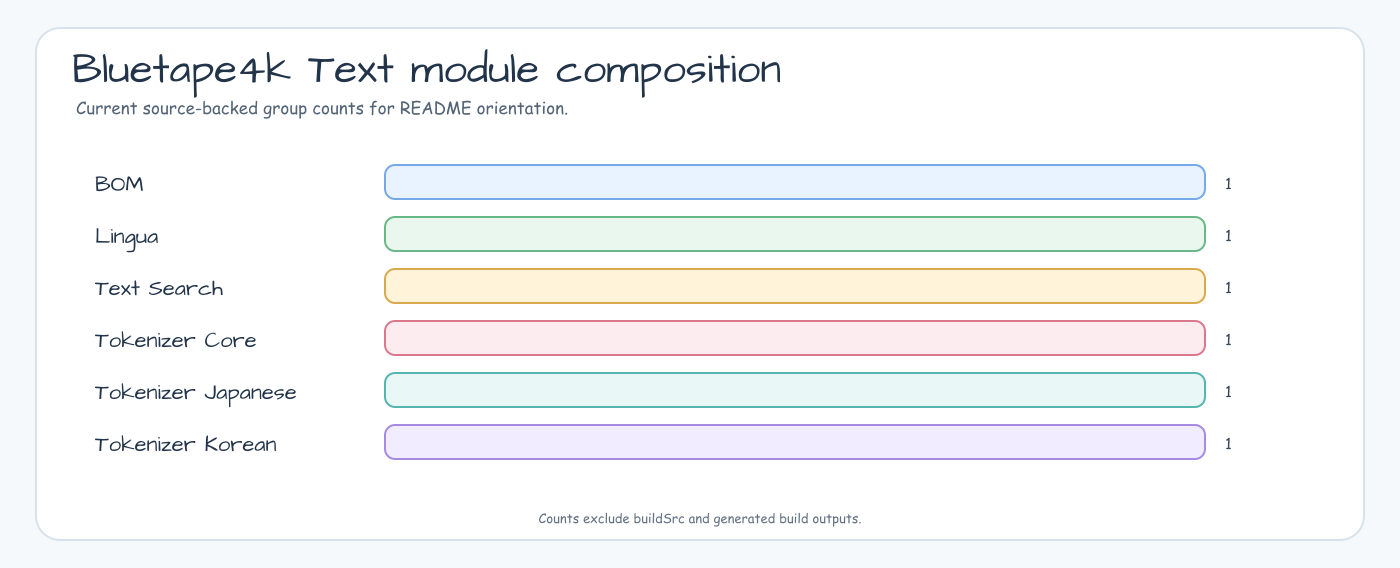
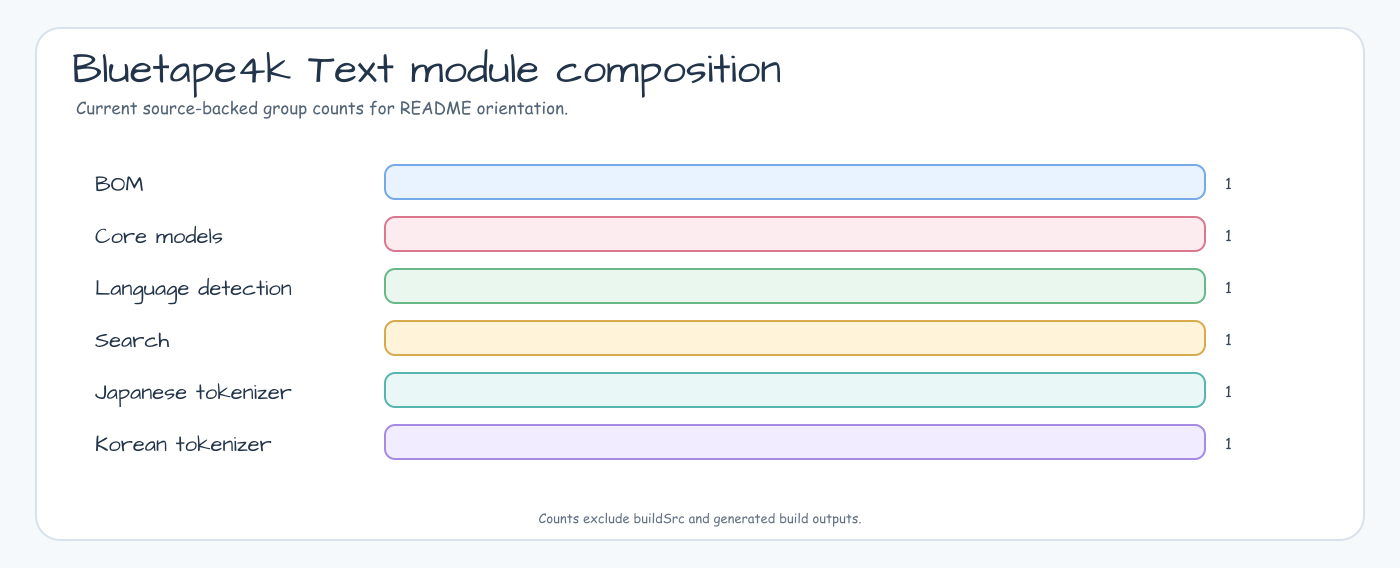
docs: align text README visuals with source modules
Refresh README visuals and dependency examples so the text repository presents the current Gradle module layout first and uses current published coordinates.\n\nConstraint: README diagrams must remain English-only with pastel styling and verified PNG output.\nRejected: Preserve older branded artifact names | settings.gradle.kts and gradle.properties define the current public coordinates.\nConfidence: high\nScope-risk: narrow\nDirective: Treat settings.gradle.kts and gradle.properties as README coordinate sources of truth.\nTested: rsvg-convert root SVG to PNG; xmllint updated SVG assets; README image link scan; stale coordinate grep; git diff --check; ./gradlew -q projects.\nNot-tested: Full Gradle test suite; documentation-only change.

diff --git a/README.md b/README.md
@@ -45,11 +45,12 @@ and high-throughput keyword search.
 
 | Module | Description | Artifact |
 |---|---|---|
+| `bom` | Consumer BOM for aligned text artifacts | `io.github.bluetape4k.text:bluetape4k-text-bom` |
 | `tokenizer-core` | Shared domain models (`TokenizeRequest/Response`, `BlockwordRequest/Response`, `Severity`), dictionary utilities (`DictionaryProvider`, `CharArraySet`) | `io.github.bluetape4k.text:tokenizer-core` |
-| `tokenizer-japanese` | `JapaneseProcessor` facade powered by Kuromoji IPAdic — morphological analysis, POS filtering, blockword detection and masking | `io.github.bluetape4k.text:tokenizer-japanese` |
-| `tokenizer-korean` | `KoreanProcessor` facade — full Korean NLP pipeline: normalization, POS tokenization, phrase extraction, stemming, sentence splitting, blockword masking | `io.github.bluetape4k.text:tokenizer-korean` |
 | `lingua` | Kotlin DSL wrapper around Lingua — factory functions for `LanguageDetector`, mixed-language detection via `Set<Language>`, `UnicodeDetector` | `io.github.bluetape4k.text:lingua` |
 | `text-search` | `AhoCorasickAutomaton<V>` — O(n+m+z) multi-keyword search, Unicode normalization, word boundaries, Kotlin Flow API | `io.github.bluetape4k.text:text-search` |
+| `tokenizer-japanese` | `JapaneseProcessor` facade powered by Kuromoji IPAdic — morphological analysis, POS filtering, blockword detection and masking | `io.github.bluetape4k.text:tokenizer-japanese` |
+| `tokenizer-korean` | `KoreanProcessor` facade — full Korean NLP pipeline: normalization, POS tokenization, phrase extraction, stemming, sentence splitting, blockword masking | `io.github.bluetape4k.text:tokenizer-korean` |
 
 ## Architecture
 

diff --git a/bom/README.ko.md b/bom/README.ko.md
@@ -5,7 +5,7 @@
 **bluetape4k-text** 생태계용 Maven BOM (Bill of Materials). 모든 `io.github.bluetape4k.text:*`
 모듈의 버전을 중앙 관리한다.
 
-## Architecture
+## 아키텍처
 
 ![bom Architecture diagram](../docs/images/readme-diagrams/bom-architecture-01.png)
 
@@ -21,11 +21,11 @@ BOM은 Gradle `java-platform` 으로 `<dependencyManagement>` constraint 만 게
 
 | 모듈 | 설명 |
 |------|------|
-| `bluetape4k-tokenizer-core` | Tokenizer 코어 추상화 |
-| `bluetape4k-tokenizer-korean` | 한국어 형태소 분석기 |
-| `bluetape4k-tokenizer-japanese` | 일본어 토크나이저 |
-| `bluetape4k-text-search` | Aho-Corasick 다중 패턴 검색 |
-| `bluetape4k-lingua` | 다국어 감지 |
+| `tokenizer-core` | Tokenizer 코어 추상화 |
+| `tokenizer-korean` | 한국어 형태소 분석기 |
+| `tokenizer-japanese` | 일본어 토크나이저 |
+| `text-search` | Aho-Corasick 다중 패턴 검색 |
+| `lingua` | 다국어 감지 |
 
 ## 사용 예제
 
@@ -43,8 +43,8 @@ dependencyManagement {
 }
 
 dependencies {
-    implementation("io.github.bluetape4k.text:bluetape4k-tokenizer-korean")
-    implementation("io.github.bluetape4k.text:bluetape4k-text-search")
+    implementation("io.github.bluetape4k.text:tokenizer-korean")
+    implementation("io.github.bluetape4k.text:text-search")
 }
 ```
 
@@ -53,7 +53,7 @@ dependencies {
 ```kotlin
 dependencies {
     implementation(platform("io.github.bluetape4k.text:bluetape4k-text-bom:<version>"))
-    implementation("io.github.bluetape4k.text:bluetape4k-tokenizer-korean")
+    implementation("io.github.bluetape4k.text:tokenizer-korean")
 }
 ```
 

diff --git a/bom/README.md b/bom/README.md
@@ -22,11 +22,11 @@ The BOM is a Gradle `java-platform` that publishes only `<dependencyManagement>`
 
 | Module | Description |
 |--------|-------------|
-| `bluetape4k-tokenizer-core` | Tokenizer core abstractions |
-| `bluetape4k-tokenizer-korean` | Korean morphological tokenizer |
-| `bluetape4k-tokenizer-japanese` | Japanese tokenizer |
-| `bluetape4k-text-search` | Aho-Corasick multi-pattern search |
-| `bluetape4k-lingua` | Multi-language detection |
+| `tokenizer-core` | Tokenizer core abstractions |
+| `tokenizer-korean` | Korean morphological tokenizer |
+| `tokenizer-japanese` | Japanese tokenizer |
+| `text-search` | Aho-Corasick multi-pattern search |
+| `lingua` | Multi-language detection |
 
 ## Usage Examples
 
@@ -44,8 +44,8 @@ dependencyManagement {
 }
 
 dependencies {
-    implementation("io.github.bluetape4k.text:bluetape4k-tokenizer-korean")
-    implementation("io.github.bluetape4k.text:bluetape4k-text-search")
+    implementation("io.github.bluetape4k.text:tokenizer-korean")
+    implementation("io.github.bluetape4k.text:text-search")
 }
 ```
 
@@ -54,7 +54,7 @@ dependencies {
 ```kotlin
 dependencies {
     implementation(platform("io.github.bluetape4k.text:bluetape4k-text-bom:<version>"))
-    implementation("io.github.bluetape4k.text:bluetape4k-tokenizer-korean")
+    implementation("io.github.bluetape4k.text:tokenizer-korean")
 }
 ```
 

diff --git a/docs/lessons/2026-05-21-readme-visual-semantics.md b/docs/lessons/2026-05-21-readme-visual-semantics.md
@@ -1,0 +1,24 @@
+# README Visual Semantics
+
+## Context
+
+The root README visual overview existed, but the README module table omitted the BOM project and the visual grouping order made the core tokenizer model layer less prominent than secondary modules.
+
+## Decision
+
+Keep the first README visual as an English-only overview, and order module orientation as BOM, core models, language detection, search, Japanese tokenizer, and Korean tokenizer. Normalize public dependency coordinates to `projectGroup=io.github.bluetape4k.text` and current Gradle artifact names.
+
+## Outcome
+
+Updated root README module tables, regenerated root overview and module chart PNGs, fixed localized diagram alt text, and removed stale `io.bluetape4k:*` dependency examples from README files.
+
+## Verification
+
+- `rsvg-convert` regenerated updated PNG assets from SVG sources.
+- `xmllint --noout` passed for updated root SVG assets.
+- `./gradlew -q projects` confirmed current projects: `:bluetape4k-text-bom`, `:tokenizer-core`, `:lingua`, `:text-search`, `:tokenizer-japanese`, and `:tokenizer-korean`.
+- Visual inspection confirmed centered labels and readable layout.
+
+## Future Guidance
+
+For text README updates, treat `settings.gradle.kts` and `gradle.properties` as the source of truth for dependency coordinates, not older branded module names left in module-level examples.

diff --git a/lingua/README.ko.md b/lingua/README.ko.md
@@ -1,6 +1,6 @@
 한국어 | [English](./README.md)
 
-# bluetape4k-lingua
+# lingua
 
 `com.github.pemistahl:lingua`를 감싸는 얇은 Kotlin DSL 래퍼이며, 혼합 언어 텍스트에서 검출된 모든 언어를 `Set<Language>`로 반환하는 편의 API를 제공합니다.
 
@@ -8,7 +8,7 @@
 
 ![lingua Architecture diagram](../docs/images/readme-diagrams/lingua-architecture-01.png)
 
-![lingua Class Structure 2 diagram](../docs/images/readme-diagrams/lingua-class-02.png)
+![lingua Class Structure diagram](../docs/images/readme-diagrams/lingua-class-02.png)
 
 ## 주요 기능
 
@@ -108,9 +108,9 @@ detector.containsAny("Hello 안녕", Locale.KOREAN)  // true
 
 ```kotlin
 // build.gradle.kts
-implementation("io.bluetape4k:bluetape4k-lingua:1.7.0-SNAPSHOT")
+implementation("io.github.bluetape4k.text:lingua:1.7.0-SNAPSHOT")
 ```
 
-`bluetape4k-lingua`는 upstream Lingua 의존성을 transitively 포함합니다.
+`lingua`는 upstream Lingua 의존성을 transitively 포함합니다.
 
 > **주의**: detector는 호출마다 새로 만들지 말고 재사용하는 것이 좋습니다 — 모델 로딩 비용이 큽니다. 공백 입력은 `emptySet()`을 반환합니다. 토큰 단위에서 usable result가 없으면 전체 문자열 감지로 fallback 합니다.

diff --git a/tokenizer-korean/README.ko.md b/tokenizer-korean/README.ko.md
@@ -1,6 +1,6 @@
 한국어 | [English](./README.md)
 
-# bluetape4k-tokenizer-korean
+# tokenizer-korean
 
 한국어 형태소 분석, 정규화, 구문 추출, 어간 복원, 문장 분리, 금칙어 마스킹을 제공하는 NLP 라이브러리입니다. `twitter-text` 의존성 없이 동작하며, URL/Hashtag/Mention/CashTag 패턴은 `TwitterCompatPatterns.kt`에서 내부적으로 구현됩니다.
 
@@ -82,7 +82,7 @@ runBlocking(Dispatchers.Default) {
 
 | 의존성 | 목적 |
 |---|---|
-| `bluetape4k-tokenizer-core` | `BlockwordRequest`, `Severity`, 토크나이저 계약 인터페이스 |
+| `tokenizer-core` | `BlockwordRequest`, `Severity`, 토크나이저 계약 인터페이스 |
 | `bluetape4k-coroutines` | 코루틴 기반 청킹 파이프라인 |
 | `bluetape4k-io` | I/O 유틸리티 |
 | `eclipse-collections` | 사전 저장을 위한 고성능 컬렉션 |
@@ -90,5 +90,5 @@ runBlocking(Dispatchers.Default) {
 
 ```kotlin
 // build.gradle.kts
-implementation("io.bluetape4k:bluetape4k-tokenizer-korean:1.7.0-SNAPSHOT")
+implementation("io.github.bluetape4k.text:tokenizer-korean:1.7.0-SNAPSHOT")
 ```

diff --git a/tokenizer-korean/README.md b/tokenizer-korean/README.md
@@ -1,6 +1,6 @@
 [한국어](./README.ko.md) | English
 
-# bluetape4k-tokenizer-korean
+# tokenizer-korean
 
 Korean NLP library for morphological analysis, normalization, phrase extraction, stemming, sentence splitting, and blockword masking — with no `twitter-text` dependency (URL/Hashtag/Mention/CashTag patterns are implemented internally via `TwitterCompatPatterns.kt`).
 
@@ -82,7 +82,7 @@ runBlocking(Dispatchers.Default) {
 
 | Dependency | Purpose |
 |---|---|
-| `bluetape4k-tokenizer-core` | `BlockwordRequest`, `Severity`, tokenizer contract interfaces |
+| `tokenizer-core` | `BlockwordRequest`, `Severity`, tokenizer contract interfaces |
 | `bluetape4k-coroutines` | Coroutines-based chunker pipeline |
 | `bluetape4k-io` | I/O utilities |
 | `eclipse-collections` | High-performance collections for dictionary storage |
@@ -90,5 +90,5 @@ runBlocking(Dispatchers.Default) {
 
 ```kotlin
 // build.gradle.kts
-implementation("io.bluetape4k:bluetape4k-tokenizer-korean:1.7.0-SNAPSHOT")
+implementation("io.github.bluetape4k.text:tokenizer-korean:1.7.0-SNAPSHOT")
 ```

diff --git a/tokenizer-japanese/README.ko.md b/tokenizer-japanese/README.ko.md
@@ -1,8 +1,8 @@
 한국어 | [English](./README.md)
 
-# bluetape4k-tokenizer-japanese
+# tokenizer-japanese
 
-`bluetape4k-tokenizer-core` 위에 구축된 Kuromoji IPAdic 기반 일본어 형태소 분석 및 금칙어 처리 라이브러리입니다.
+`tokenizer-core` 위에 구축된 Kuromoji IPAdic 기반 일본어 형태소 분석 및 금칙어 처리 라이브러리입니다.
 
 ## 아키텍처
 
@@ -88,13 +88,13 @@ JapaneseProcessor.clearBlockwords()
 
 | 의존성 | 역할 |
 |---|---|
-| `bluetape4k-tokenizer-core` | 도메인 모델, `DictionaryProvider`, `CharArraySet` |
+| `tokenizer-core` | 도메인 모델, `DictionaryProvider`, `CharArraySet` |
 | `bluetape4k-coroutines` | 비동기 사전 로딩 |
 | `kuromoji-ipadic` | Kuromoji IPAdic 형태소 분석기 |
 
 ```kotlin
 dependencies {
-    implementation("io.bluetape4k:bluetape4k-tokenizer-japanese:1.7.0-SNAPSHOT")
+    implementation("io.github.bluetape4k.text:tokenizer-japanese:1.7.0-SNAPSHOT")
 }
 ```
 

diff --git a/tokenizer-japanese/README.md b/tokenizer-japanese/README.md
@@ -1,8 +1,8 @@
 [한국어](./README.ko.md) | English
 
-# bluetape4k-tokenizer-japanese
+# tokenizer-japanese
 
-Japanese morphological analysis and blockword filtering library powered by Kuromoji IPAdic, built on top of `bluetape4k-tokenizer-core`.
+Japanese morphological analysis and blockword filtering library powered by Kuromoji IPAdic, built on top of `tokenizer-core`.
 
 ## Architecture
 
@@ -90,13 +90,13 @@ JapaneseProcessor.clearBlockwords()
 
 | Dependency | Purpose |
 |---|---|
-| `bluetape4k-tokenizer-core` | Domain models, `DictionaryProvider`, `CharArraySet` |
+| `tokenizer-core` | Domain models, `DictionaryProvider`, `CharArraySet` |
 | `bluetape4k-coroutines` | Async dictionary loading |
 | `kuromoji-ipadic` | Kuromoji IPAdic morphological analyzer |
 
 ```kotlin
 dependencies {
-    implementation("io.bluetape4k:bluetape4k-tokenizer-japanese:1.7.0-SNAPSHOT")
+    implementation("io.github.bluetape4k.text:tokenizer-japanese:1.7.0-SNAPSHOT")
 }
 ```
 

diff --git a/lingua/README.md b/lingua/README.md
@@ -1,6 +1,6 @@
 [한국어](./README.ko.md) | English
 
-# bluetape4k-lingua
+# lingua
 
 A thin Kotlin DSL wrapper around `com.github.pemistahl:lingua` for language detection, plus a convenience API that returns all detected languages as a `Set<Language>` for mixed-language text.
 
@@ -108,9 +108,9 @@ detector.containsAny("Hello 안녕", Locale.KOREAN)  // true
 
 ```kotlin
 // build.gradle.kts
-implementation("io.bluetape4k:bluetape4k-lingua:1.7.0-SNAPSHOT")
+implementation("io.github.bluetape4k.text:lingua:1.7.0-SNAPSHOT")
 ```
 
-`bluetape4k-lingua` already brings the upstream Lingua dependency transitively.
+`lingua` already brings the upstream Lingua dependency transitively.
 
 > **Note**: Reuse detector instances instead of rebuilding them per call — model loading is expensive. Blank input returns `emptySet()`. If no usable per-token result is found, the extension falls back to whole-text detection.
